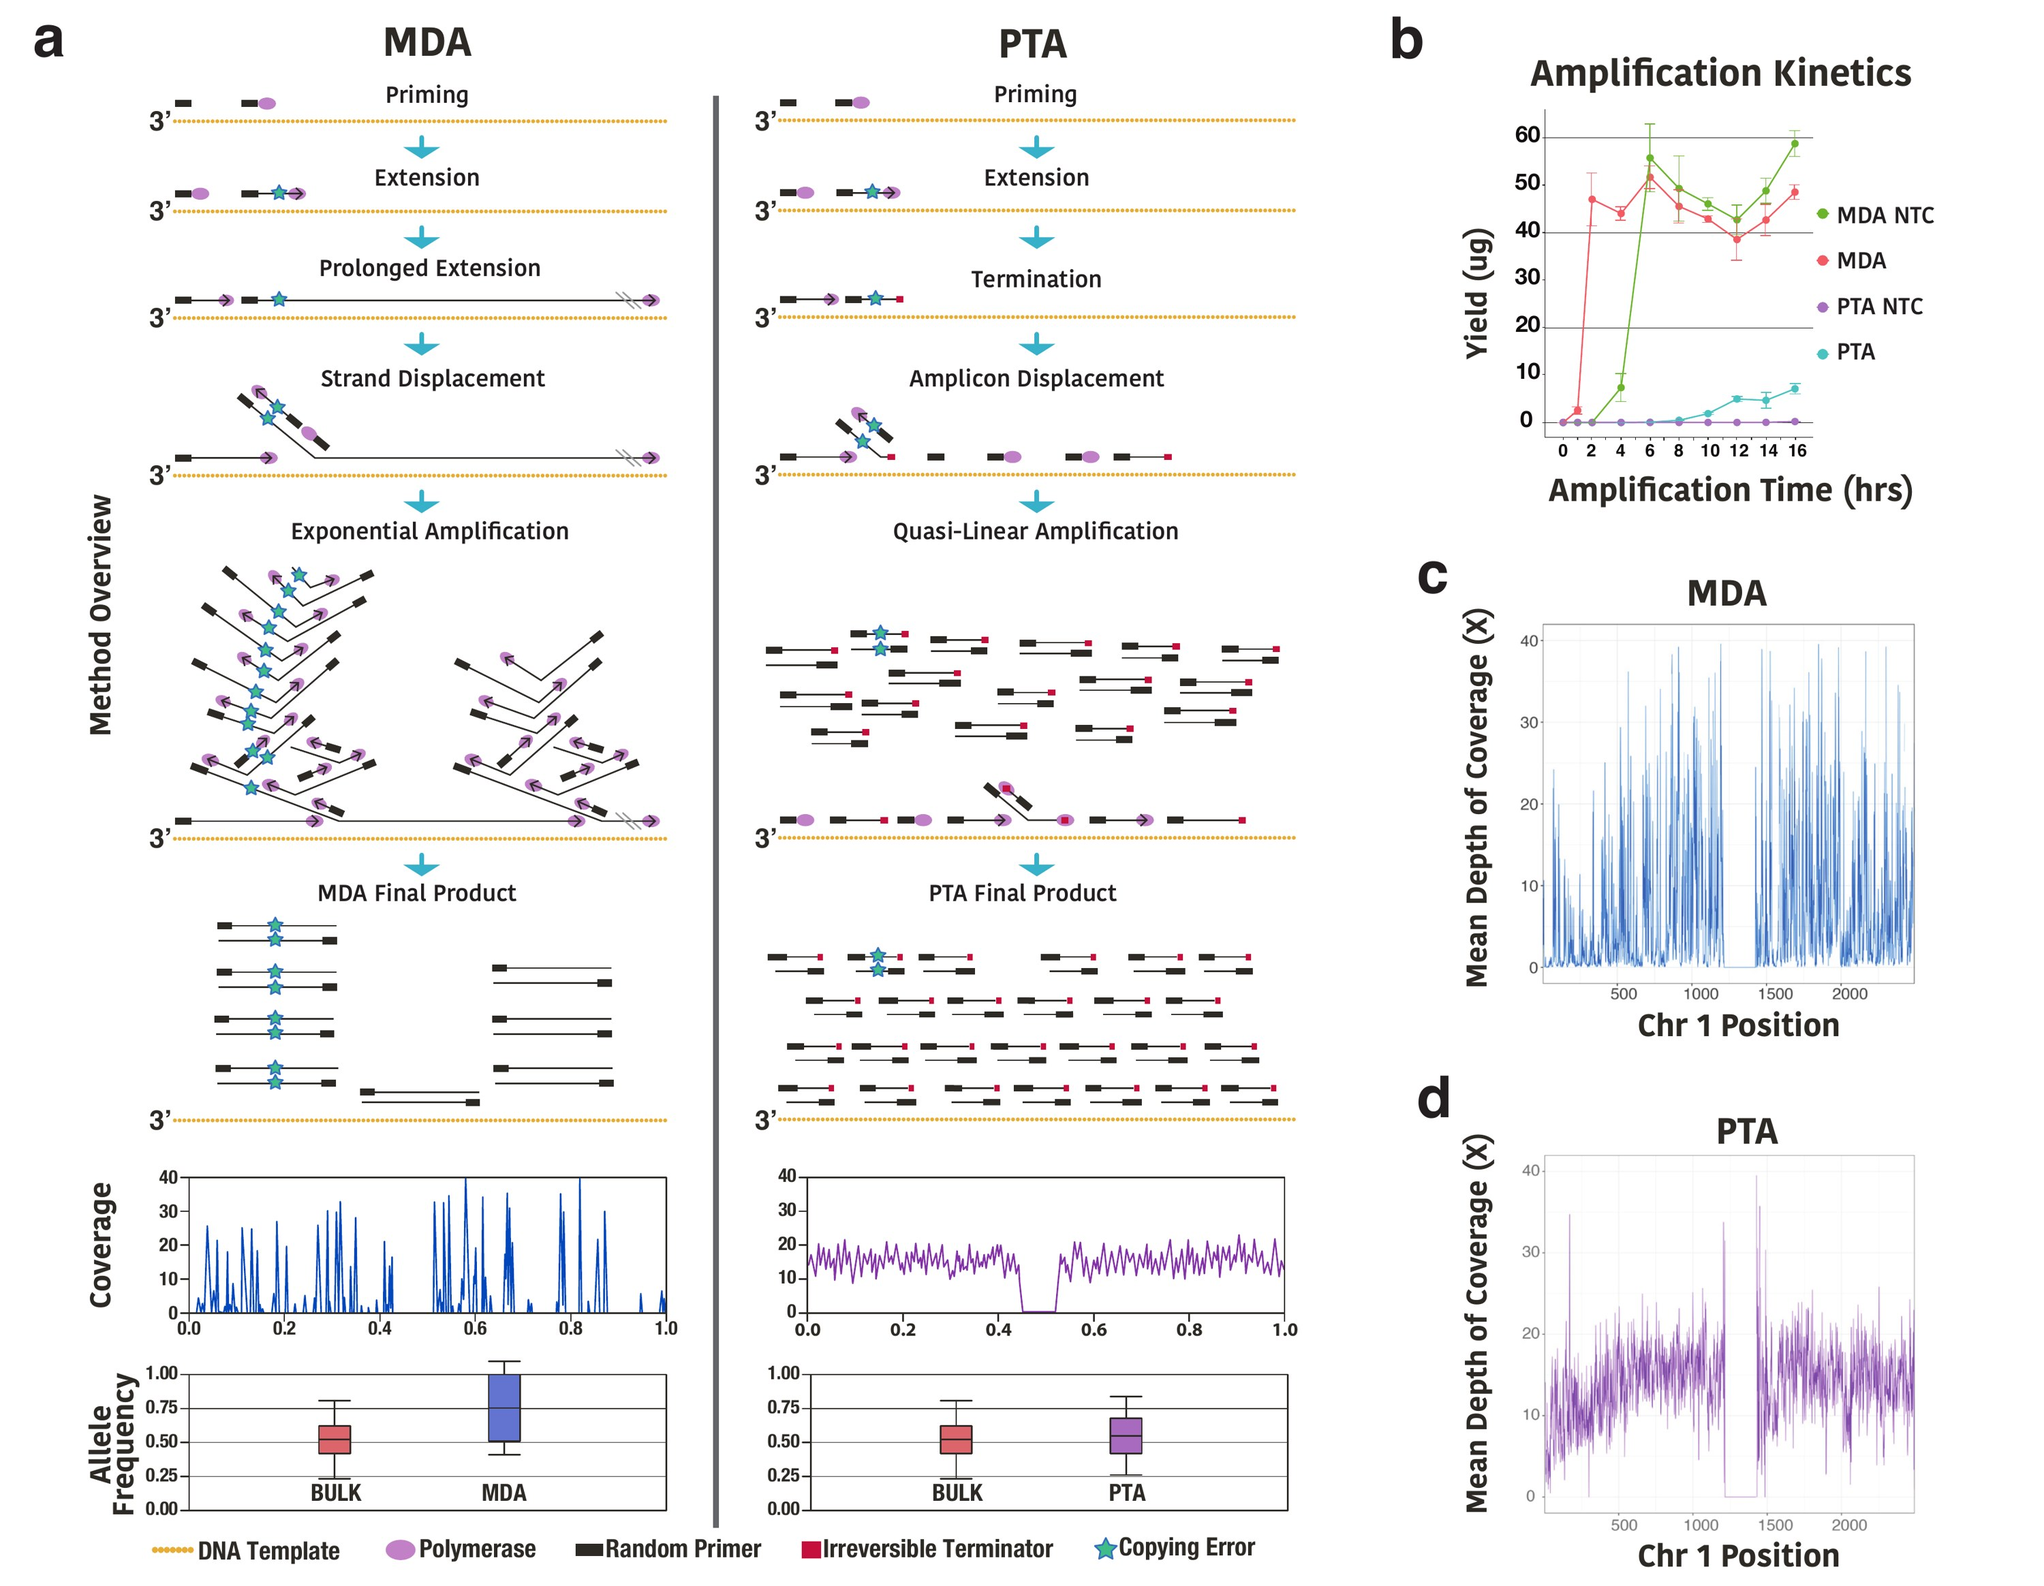
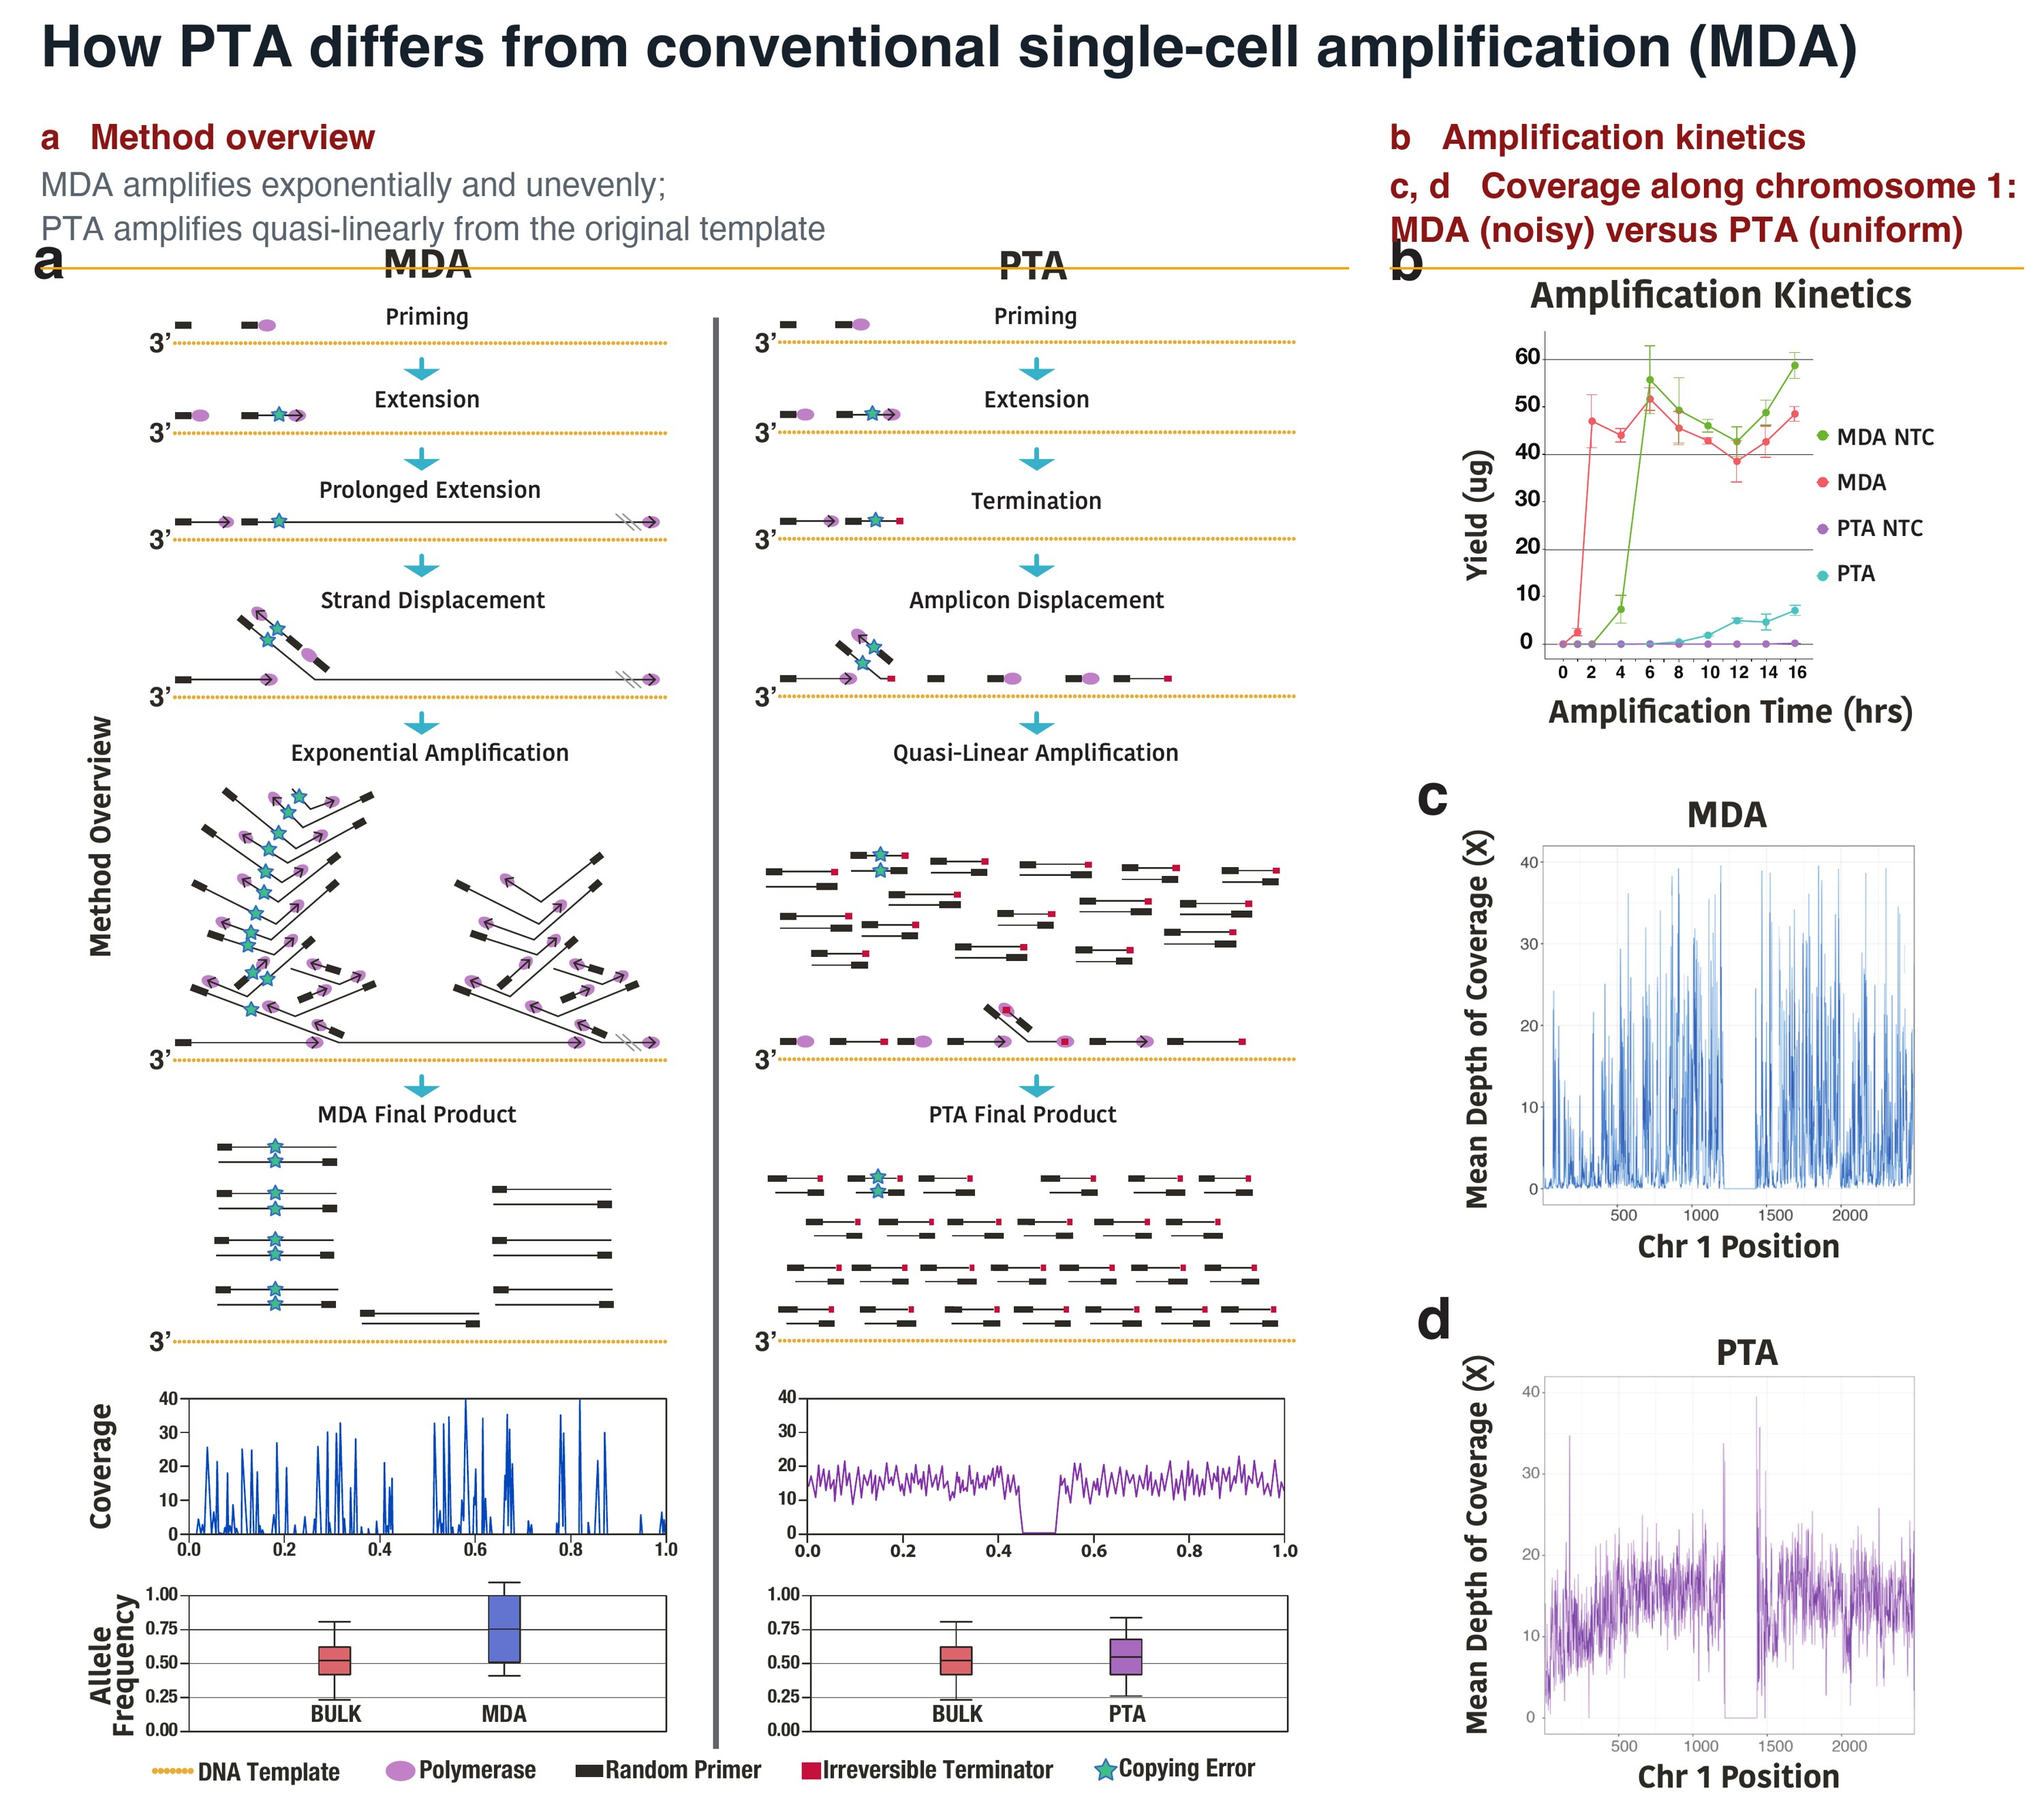
Research: labeled Program 1 and 2 figures, B-ALL single-cell atlas figure, new Program 6 on viral origins of childhood leukemia

diff --git a/src/pages/research.html b/src/pages/research.html
@@ -37,6 +37,15 @@
   </div>
 </section>
 
+<section class="section section-alt" id="leukemia-cells" style="padding-top:0">
+  <div class="container">
+    <figure class="figure-wide" style="margin-top:0">
+      <a class="zoom" href="assets/ball-umap.jpg" title="Click to enlarge"><img src="assets/ball-umap.jpg" alt="UMAP of single-cell RNA-seq from B-ALL, bone marrow, cord blood, and fetal liver, colored by sample source and by cell type" loading="lazy"></a>
+      <figcaption class="img-credit">Where leukemia sits among normal blood development. Single-cell RNA-seq places B-ALL blasts (red) next to hematopoietic stem and progenitor cells from bone marrow, cord blood, and fetal liver, with each normal lineage labeled. Gawad lab.</figcaption>
+    </figure>
+  </div>
+</section>
+
 <section class="section" id="mosaicism">
   <div class="container feature">
     <div>
@@ -84,6 +93,22 @@
   </div>
 </section>
 
+
+<section class="section section-alt" id="viral">
+  <div class="container feature reverse">
+    <div>
+      <span class="eyebrow">Program 6</span>
+      <h2>Do common childhood viruses cause leukemia?</h2>
+      <p>The most common initiating lesion in childhood acute lymphoblastic leukemia, the ETV6-RUNX1 fusion, arises before birth in about one in a hundred newborns, yet only about one in a hundred of those children ever develops leukemia. Something after birth supplies the second hits. Mel Greaves' delayed-infection hypothesis has long pointed at childhood infections, and mouse models confirm that pathogen exposure is required, but no one has shown how an infection damages the genome of a human preleukemic cell.</p>
+      <p>The genomes of these leukemias carry two tell-tale scars: point mutations with the signature of the antiviral enzyme APOBEC3A, and deletions with the signature of RAG, the enzyme that rearranges antibody genes. We are testing whether common respiratory viruses such as influenza infect B-cell precursors directly and, through interferon signaling, switch on APOBEC3A while RAG is active, producing exactly the mutations seen in patients. Using cord-blood precursors carrying ETV6-RUNX1, staged B-cell differentiation, and same-cell genome and transcriptome sequencing, we can read viral infection, interferon response, mutational signatures, and deletions in the same single cells.</p>
+      <p><a class="link-arrow" href="publications.html">Related: Science Advances 2022 on plasma DNA and microbes in ALL</a></p>
+    </div>
+    <div>
+      <a class="zoom" href="assets/virus.jpg" title="Click to enlarge"><img src="assets/virus.jpg" alt="Colorized transmission electron micrograph of influenza A virus particles" loading="lazy"></a>
+      <p class="img-credit">Influenza A (H1N1) virus particles, colorized transmission electron micrograph. Image: NIAID, public domain.</p>
+    </div>
+  </div>
+</section>
 
 <section class="section section-alt" id="translation">
   <div class="container prose">

diff --git a/src/pages/index.html b/src/pages/index.html
@@ -40,7 +40,7 @@
     <div class="section-head">
       <span class="eyebrow">Research</span>
       <h2>What we work on</h2>
-      <p>Five connected programs, each pairing a technology we build with a biological or clinical question it is built to answer.</p>
+      <p>Six connected programs, each pairing a technology we build with a biological or clinical question it is built to answer.</p>
       <a class="link-arrow" href="research.html">Read about each program</a>
     </div>
     <ol class="research-index">
@@ -49,6 +49,7 @@
       <li><a href="research.html#mosaicism"><span class="num">03</span><div><h3>Somatic mosaicism in human tissues</h3><p>Measuring the genetic and epigenetic state of the same single cells from normal and diseased tissues to learn how mutations acquired over a lifetime shape disease.</p><div class="tags"><span class="tag">Neurons</span><span class="tag">mtDNA</span><span class="tag">Epigenetics</span></div></div><span class="arrow">&rarr;</span></a></li>
       <li><a href="research.html#infection"><span class="num">04</span><div><h3>Infectious disease diagnostics</h3><p>Plasma cell-free metagenomic sequencing that predicts bloodstream infection in children with cancer, and rapid, low-cost approaches to diagnosing sepsis.</p><div class="tags"><span class="tag">cfDNA</span><span class="tag">Sepsis</span><span class="tag">Point of care</span></div></div><span class="arrow">&rarr;</span></a></li>
       <li><a href="research.html#microbes"><span class="num">05</span><div><h3>Single-microbe genomics</h3><p>scMicrobe PTA recovers near-complete genomes from individual bacterial cells without culture, opening strain-level views of microbial communities and antimicrobial resistance.</p><div class="tags"><span class="tag">scMicrobe PTA</span><span class="tag">Culture-free</span><span class="tag">AMR</span></div></div><span class="arrow">&rarr;</span></a></li>
+      <li><a href="research.html#viral"><span class="num">06</span><div><h3>Viral origins of childhood leukemia</h3><p>Testing whether common respiratory viruses infect preleukemic B-cell precursors and, through interferon and APOBEC3A, write the mutations that turn a silent fusion into leukemia.</p><div class="tags"><span class="tag">ETV6-RUNX1</span><span class="tag">APOBEC3A</span><span class="tag">Influenza</span></div></div><span class="arrow">&rarr;</span></a></li>
     </ol>
   </div>
 </section>
